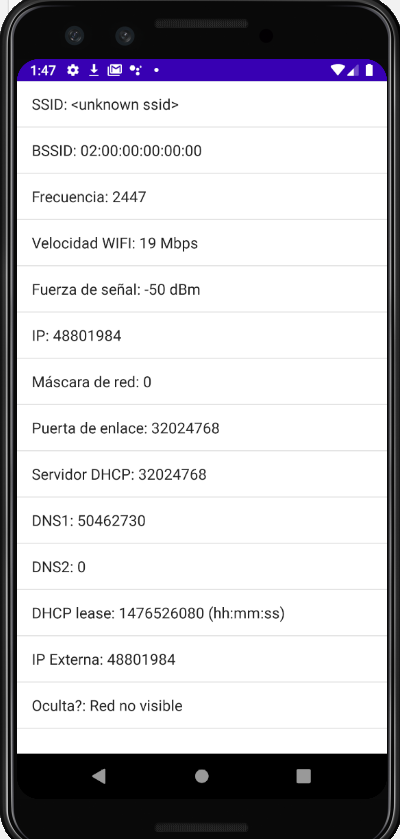
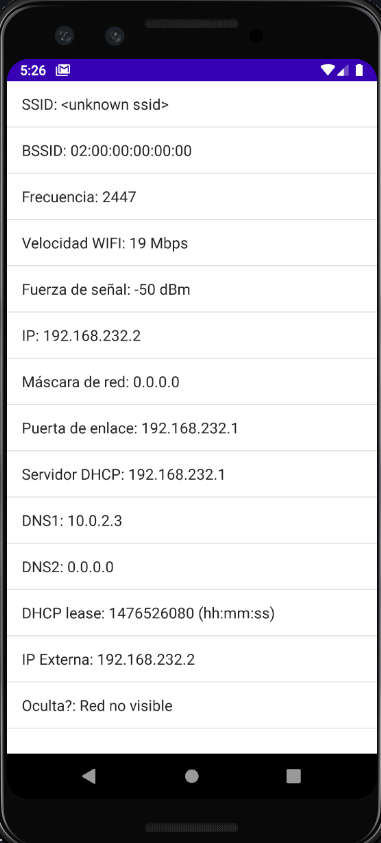
updates

Changed region(s): [[0.0, 0.0, 1.0, 1.0]]

diff --git a/wifi/wifi/app/src/main/java/es/ua/eps/wifi/MainActivity.kt b/wifi/wifi/app/src/main/java/es/ua/eps/wifi/MainActivity.kt
@@ -6,12 +6,9 @@ import android.net.DhcpInfo
 import android.net.wifi.WifiInfo
 import android.net.wifi.WifiManager
 import android.os.Build
-import androidx.appcompat.app.AppCompatActivity
 import android.os.Bundle
-import android.util.Log
+import android.text.format.Formatter
 import android.widget.ArrayAdapter
-import android.widget.Button
-import androidx.annotation.RequiresApi
 
 val info: ArrayList<String> = arrayListOf()
 
@@ -35,15 +32,14 @@ class MainActivity : ListActivity() {
         info.add("${getText(R.string.frequency)}: $frequency")
         info.add("${getText(R.string.wifiSpeed)}: ${wifiInfo.linkSpeed} Mbps")
         info.add("${getText(R.string.wifiStrength)}: ${wifiInfo.rssi} dBm")
-        info.add("IP: ${wifiInfo.ipAddress}");
-        info.add("${getText(R.string.netmask)}: ${dhcpInfo.netmask}")
-        info.add("${getText(R.string.gateway)}: ${dhcpInfo.gateway}")
-        info.add("${getText(R.string.dhcpServer)}: ${dhcpInfo.serverAddress}")
-        info.add("DNS1: ${dhcpInfo.dns1}")
-        info.add("DNS2: ${dhcpInfo.dns2}")
+        info.add("IP: ${Formatter.formatIpAddress(wifiInfo.ipAddress)}");
+        info.add("${getText(R.string.netmask)}: ${Formatter.formatIpAddress(dhcpInfo.netmask)}")
+        info.add("${getText(R.string.gateway)}: ${Formatter.formatIpAddress(dhcpInfo.gateway)}")
+        info.add("${getText(R.string.dhcpServer)}: ${Formatter.formatIpAddress(dhcpInfo.serverAddress)}")
+        info.add("DNS1: ${Formatter.formatIpAddress(dhcpInfo.dns1)}")
+        info.add("DNS2: ${Formatter.formatIpAddress(dhcpInfo.dns2)}")
         info.add("DHCP lease: ${dhcpInfo.leaseDuration} (hh:mm:ss)")
-        info.add("${getText(R.string.externalIP)}: ${dhcpInfo.ipAddress}")
+        info.add("${getText(R.string.externalIP)}: ${Formatter.formatIpAddress(dhcpInfo.ipAddress)}")
         info.add("${getText(R.string.isHidden)}: $hidden")
-        Log.d("Main", "" + info);
     }
 }
